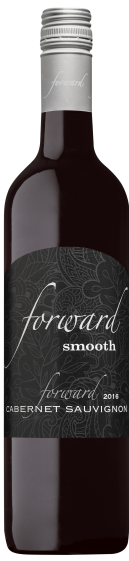
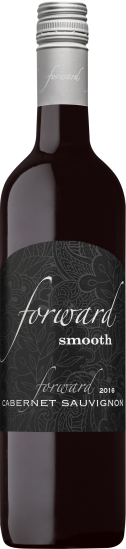
[Portf/Wine] Wine images cropped better

diff --git a/ecommerce_wine/ecommerce_wine.css b/ecommerce_wine/ecommerce_wine.css
@@ -42,7 +42,7 @@ section {
 
 /*          --------------------    WINE BOTTLES  ---------------------     */
 .wine-bottles {
-  height: 640px;
+  height: 750px;
   display: flex;
   align-items: center;
   justify-content: center;
@@ -57,6 +57,7 @@ section {
 }
 
 .wine-bottles .slide {
+  height: 700px;
   display: flex;
   flex-direction: column;
   align-items: center;
@@ -149,10 +150,6 @@ section {
   button {
     width: 150px;
     height: 150px;
-  }
-
-  .wine-bottles {
-    height: 700px;
   }
 
   .wine-bottles .price {
